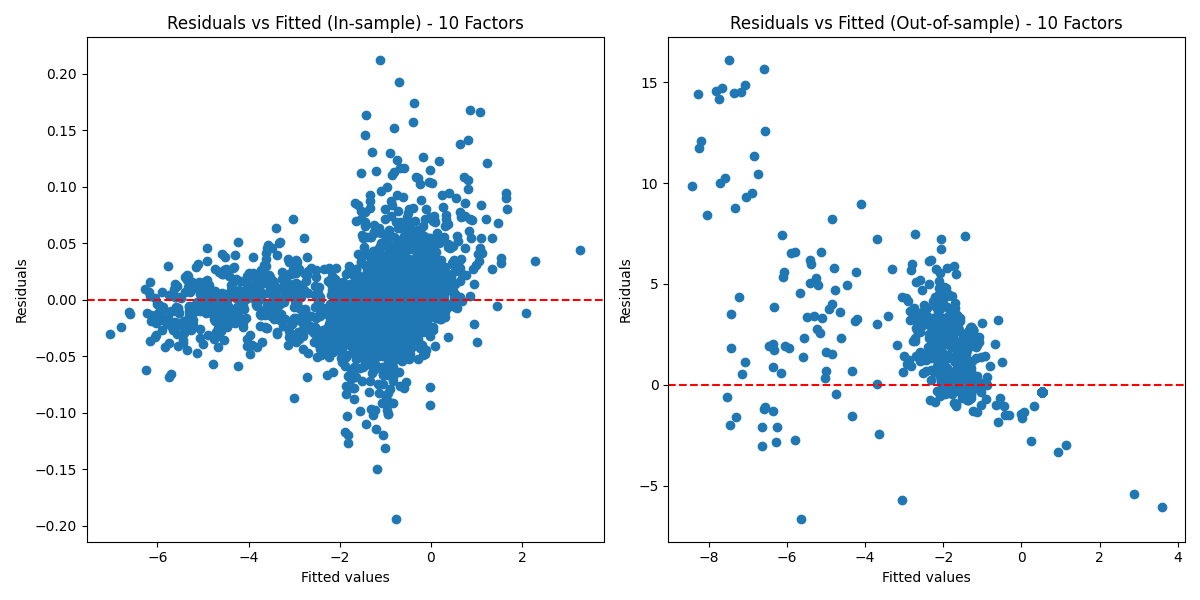
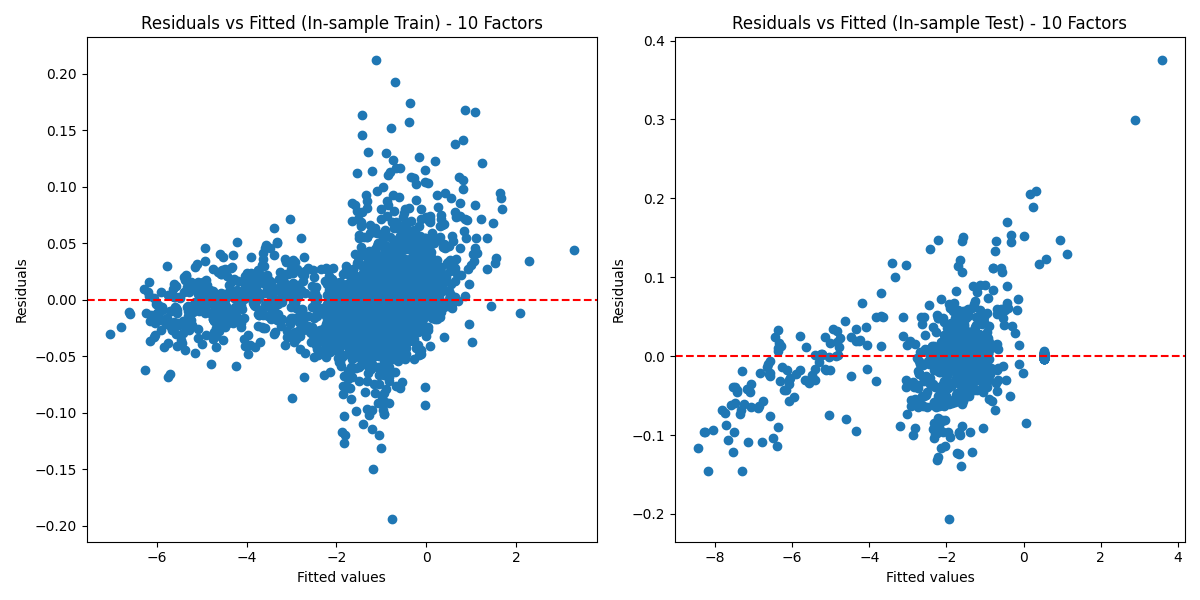
results_PCAcombined_with_AIC_BIC_AdjustedR2_LogLikelihood_Residuals werkt! Betere results dan eerst, nu nog de 18 excelletjes

diff --git a/mainPCAcombined.py b/mainPCAcombined.py
@@ -249,6 +249,52 @@ for num_factors in factor_range:
     current_train_data = np.hstack((current_train_data, predicted_variables_t5.T))
 
     # Nu kun je verdergaan met het berekenen van RMSE en andere metrics zoals eerder gedaan
+    # Calculate RMSE and R² for in-sample and test data
+    rmse_value_in_sample = RMSE(data_train, y_hat_train)
+    rmse_value_test_sample = RMSE(data_test, y_hat_test)
+    r2_test_sample = calculate_r2(data_test, y_hat_test)
+    
+    # Calculate log-likelihood, AIC, and BIC
+    log_like_value = log_likelihood(data_train, y_hat_train)
+    aic_value, bic_value = calculate_aic_bic(y_hat_train, data_train, num_factors)
+    # Calculate adjusted R²
+    adj_r2_in_sample = adjusted_r2(r2_insample, data_train.shape[0], num_factors)
+    adj_r2_test_sample = adjusted_r2(r2_test_sample, data_test.shape[0], num_factors)
+    # Average RMSE values across variables
+    avg_rmse_in_sample = rmse_value_in_sample.mean()
+    avg_rmse_test_sample = rmse_value_test_sample.mean()
+    # Append the results to the list
+    results.append({
+        'Num_Factors': num_factors,
+        'RMSE_InSample': avg_rmse_in_sample,
+        'R2_InSample': r2_insample,
+        'Adjusted_R2_InSample': adj_r2_in_sample,
+        'RMSE_TestSample': avg_rmse_test_sample,
+        'R2_TestSample': r2_test_sample,
+        'Adjusted_R2_TestSample': adj_r2_test_sample,
+        'Log_Likelihood': log_like_value,
+        'AIC': aic_value,
+        'BIC': bic_value
+    })
+    # Plot residuals
+    plt.figure(figsize=(12, 6))
+    plt.subplot(1, 2, 1)
+    plt.scatter(y_hat_train.flatten(), residuals_train.flatten())
+    plt.title(f'Residuals vs Fitted (In-sample Train) - {num_factors} Factors')
+    plt.xlabel('Fitted values')
+    plt.ylabel('Residuals')
+    plt.axhline(0, color='red', linestyle='--')
+    plt.subplot(1, 2, 2)
+    plt.scatter(y_hat_test.flatten(), residuals_test.flatten())
+    plt.title(f'Residuals vs Fitted (In-sample Test) - {num_factors} Factors')
+    plt.xlabel('Fitted values')
+    plt.ylabel('Residuals')
+    plt.axhline(0, color='red', linestyle='--')
+    plt.tight_layout()
+    
+    # Save the plot instead of showing it
+    plt.savefig(f"{plot_dir}/residuals_{num_factors}_factors.png")
+    plt.close()  # Close the figure to free up memory
 
 # Converteer de resultatenlijsten naar DataFrames voor eventuele verdere analyse of opslag
 results_df = pd.DataFrame(results)
